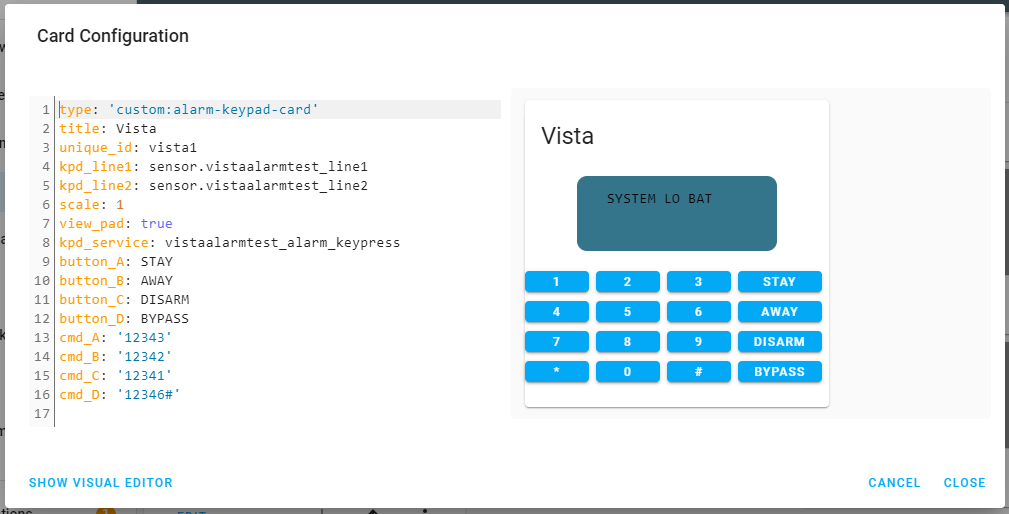
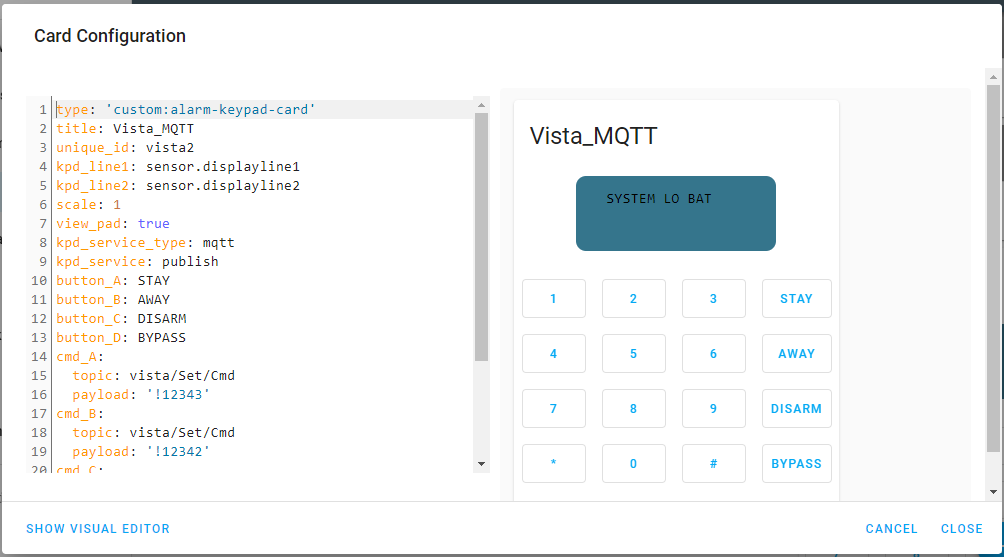
- readme update

diff --git a/README.md b/README.md
@@ -85,10 +85,51 @@ alarm_control_panel:
               code: '{{code}}'                    
 ```
 
-## Custom lovelace alarm control card
 
-- I've also provided a custom alarm card that can be used to emulate a full lcd keypad.  The card code is can be found in the ha-cards directory.  
-A sample config for ESPHome and the MQTT example are as below:
+## Services
+
+- Basic alarm services. These services default to partition 1:
+
+	- "alarm_disarm", Parameter: "code" (access code)
+	- "alarm_arm_home" 
+	- "alarm_arm_night", Parameter: "code" (access code)
+	- "alarm_arm_away"
+	- "alarm_trigger_panic"
+	- "alarm_trigger_fire"
+
+
+- Intermediate command service. Use this service if you need more versatility such as setting alarm states on any partition:
+
+	- "set_alarm_state",  Parameters: "partition","state","code"  where partition is the partition number from 1 to 8, state is one of "D" (disarm), "A" (arm_away), "S" (arm_home), "N" (arm_night), "P" (panic) or "F" (fire) and "code" is your panel access code (can be empty for arming, panic and fire cmds )
+
+- Generic command service. Use this service for more complex control:
+
+	- "alarm_keypress",  Parameter: "keys" where keys can be any sequence of keys accepted by your panel. For example to arm in night mode you set keys to be "xxxx33" where xxxx is your access code. 
+    
+    - "set_zone_fault",Parameters: "zone","fault" where zone is a zone from 9 - 48 and fault is 0 or 1 (0=ok, 1=open)
+       The zone number will depend on what your expander address is set to.
+
+
+## Wiring
+
+
+![Image of HASS example](https://github.com/Dilbert66/esphome-vistaECP/blob/master/ECPInterface.png)
+
+
+## Wiring Notes
+* None of the components are critical.  Any small optocoupler should be fine for U2.  You can also vary the resistor values but keep the ratio similar for the voltage dividers R2/R3 and (optional) R4/R5.  R1 should not be set below 220 ohm.  As noted, if you don't intend to use the MONITORTX function, you don't need R4/R5.  You should also be able to power via USB but I recommend using a power source that can provide at least 800ma. For external power I recommend an adjustable LM2596 or MP1584EN buck converter module to convert the 12volts to 5v or 3.3 volt.
+
+
+## OTA updates
+In order to make OTA updates, connection switch in frontend should be switched to OFF since the  ECP library is using interrupts.
+
+## MQTT with HomeAssistant
+If your preference is to use MQTT instead of ESPHOME, you can use the Arduino sketch from the MQTT-Example directory. It supports pretty much all functions of the ESPHOME implementation.  To use, simply put the ino and all *.h and *.cpp vista library files in the same sketch directory and compile.  Read the comments within the sketch for more details.   The sketch also supports ArduinoOTA (https://www.arduino.cc/reference/en/libraries/arduinoota/) that will enable you to update the code via wifi once the initial upload is done.  
+
+## Custom Alarm Panel Card
+
+I've added a sample lovelace alarm-panel card copied from the repository at https://github.com/GalaxyGateway/HA-Cards. I've customized it to work with this ESP library's services.   I've also added two new text fields that will be used by the card to display the panel prompts the same way a real keypad does. To configure the card, just place the alarm-panel-card.js file into the /config/www directory of your homeassistant installation and add a new resource in your lovelace configuration pointing to /local/alarm-panel-card.js.  You can then configure the card as shown below. Just substitute your service name to your application.
+
 ```
 type: 'custom:alarm-keypad-card'
 title: Vista_ESPHOME
@@ -142,54 +183,6 @@ beep: sensor.vistamqttbeeps
 
 
 ```
-
-## Services
-
-- Basic alarm services. These services default to partition 1:
-
-	- "alarm_disarm", Parameter: "code" (access code)
-	- "alarm_arm_home" 
-	- "alarm_arm_night", Parameter: "code" (access code)
-	- "alarm_arm_away"
-	- "alarm_trigger_panic"
-	- "alarm_trigger_fire"
-
-
-- Intermediate command service. Use this service if you need more versatility such as setting alarm states on any partition:
-
-	- "set_alarm_state",  Parameters: "partition","state","code"  where partition is the partition number from 1 to 8, state is one of "D" (disarm), "A" (arm_away), "S" (arm_home), "N" (arm_night), "P" (panic) or "F" (fire) and "code" is your panel access code (can be empty for arming, panic and fire cmds )
-
-- Generic command service. Use this service for more complex control:
-
-	- "alarm_keypress",  Parameter: "keys" where keys can be any sequence of keys accepted by your panel. For example to arm in night mode you set keys to be "xxxx33" where xxxx is your access code. 
-    
-    - "set_zone_fault",Parameters: "zone","fault" where zone is a zone from 9 - 48 and fault is 0 or 1 (0=ok, 1=open)
-       The zone number will depend on what your expander address is set to.
-
-
-## Wiring
-
-
-![Image of HASS example](https://github.com/Dilbert66/esphome-vistaECP/blob/master/ECPInterface.png)
-
-
-## Wiring Notes
-* None of the components are critical.  Any small optocoupler should be fine for U2.  You can also vary the resistor values but keep the ratio similar for the voltage dividers R2/R3 and (optional) R4/R5.  R1 should not be set below 220 ohm.  As noted, if you don't intend to use the MONITORTX function, you don't need R4/R5.  You should also be able to power via USB but I recommend using a power source that can provide at least 800ma. For external power I recommend an adjustable LM2596 or MP1584EN buck converter module to convert the 12volts to 5v or 3.3 volt.
-
-
-## OTA updates
-In order to make OTA updates, connection switch in frontend should be switched to OFF since the  ECP library is using interrupts.
-
-## MQTT with HomeAssistant
-If your preference is to use MQTT instead of ESPHOME, you can use the Arduino sketch from the MQTT-Example diretory. It supports pretty much all functions of the ESPHOME implementation.  To use, simply put the ino and all *.h and *.cpp vista library files in the same sketch directory and compile.  Read the comments within the sketch for more details.   The sketch also supports ArduinoOTA (https://www.arduino.cc/reference/en/libraries/arduinoota/) that will enable you to update the code via wifi once the initial upload is done.  
-
-## Custom Alarm Panel Card
-
-I've added a sample lovelace alarm-panel card copied from the repository at https://github.com/GalaxyGateway/HA-Cards. I've customized it to work with this ESP library's services.   I've also added two new text fields that will be used by the card to display the panel prompts the same way a real keypad does. To configure the card, just place the alarm-panel-card.js file into the /config/www directory of your homeassistant installation and add a new resource in your lovelace configuration pointing to /local/alarm-panel-card.js.  You can then configure the card as shown below. Just substitute your service name to your application.
-
-![alarm_panel_card_config](https://user-images.githubusercontent.com/7193213/111696340-95d8dc80-880a-11eb-8267-adc9e5494c53.PNG)
-
-![alarm_panel_card](https://user-images.githubusercontent.com/7193213/111649247-90fc3480-87da-11eb-9ea1-557bf93c046e.PNG)
 
 
 ## References 
